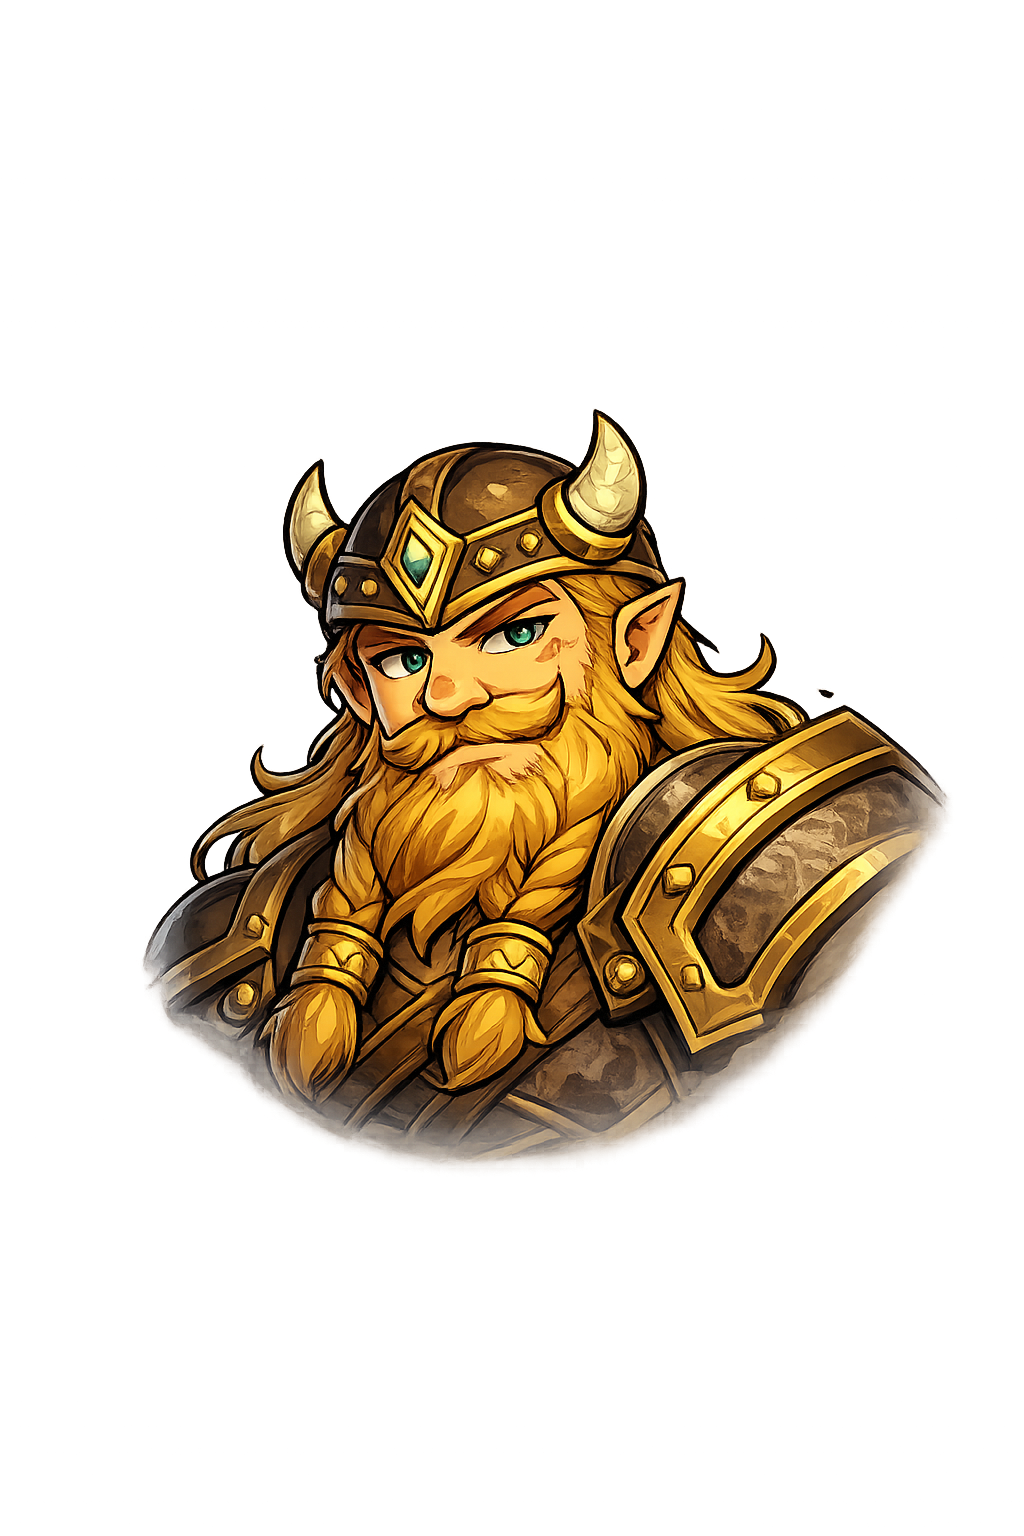
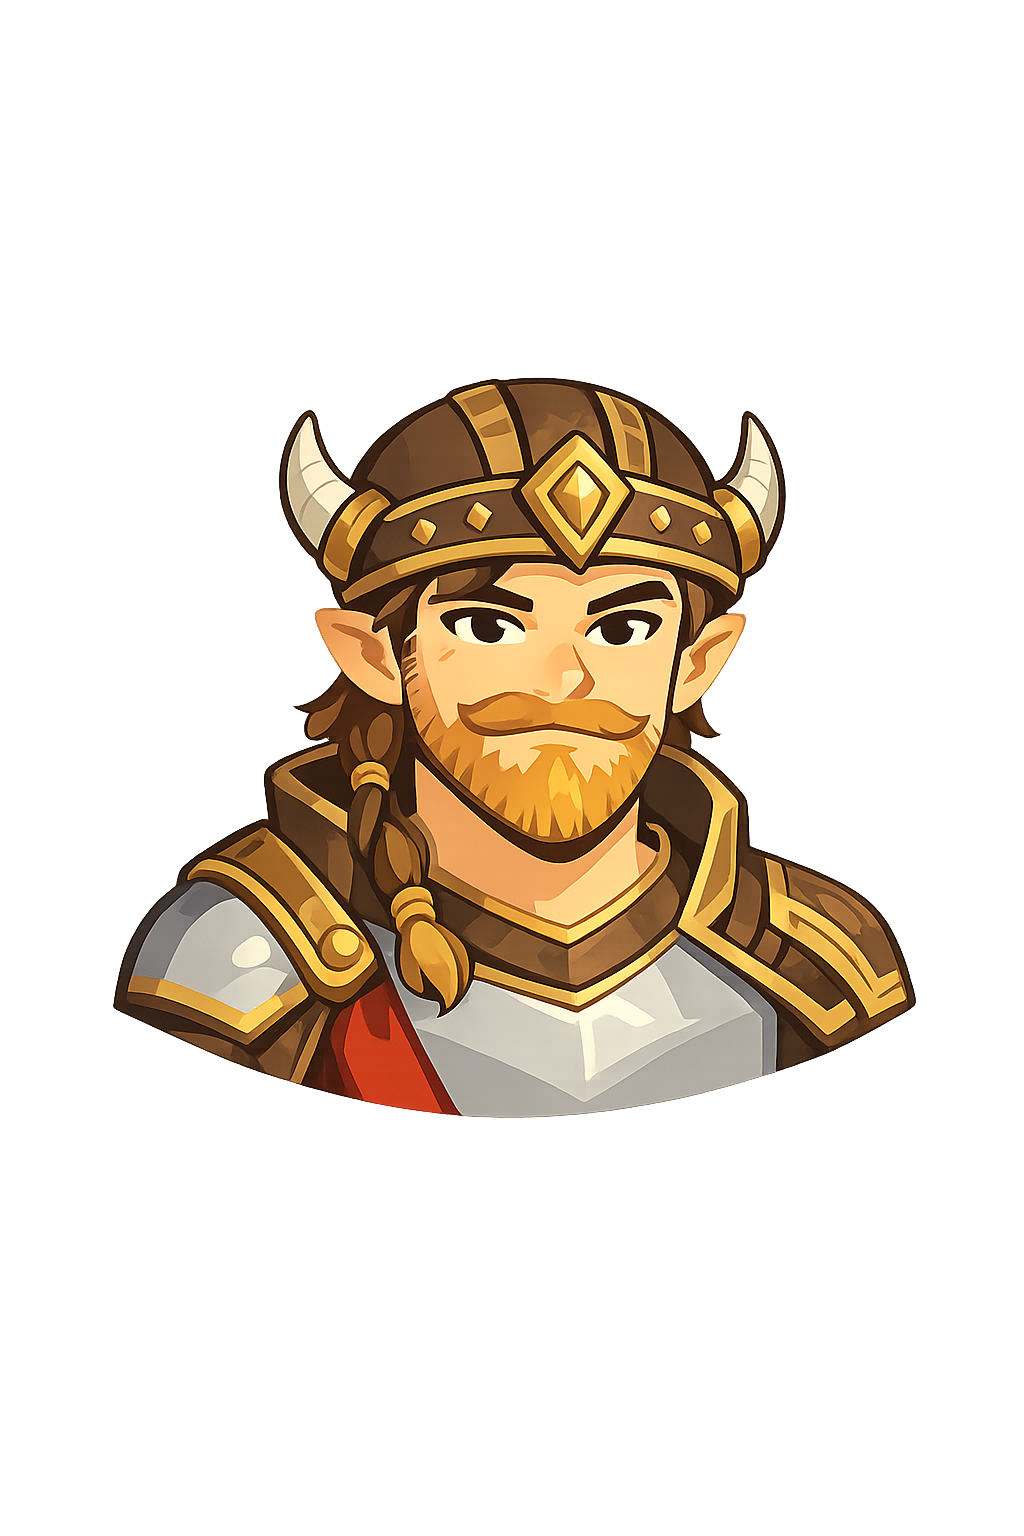
UX polish: lying wording, decision highlight, pending card glow, copy updates, asset refresh

Changed region(s): [[0.0938, 0.2188, 0.9375, 0.7812]]

diff --git a/game.js b/game.js
@@ -79,7 +79,7 @@ const AVATAR_PRESETS = Object.freeze({
   "avatar-bot": Object.freeze({ id: "avatar-bot", label: "Bot" })
 });
 
-const ASSET_VERSION = "2";
+const ASSET_VERSION = "3";
 
 const UI_TIMINGS = Object.freeze({
   actionToastMs: 1800,
@@ -129,6 +129,7 @@ const state = {
   pendingAction: null,
   pendingResponder: null,
   pendingChallengeResult: null,
+  pendingClaim: null,
   currentActionText: "Ready.",
   events: [],
   resolutionToken: 0,
@@ -664,6 +665,43 @@ function withAssetVersion(path) {
   return `${path}${separator}v=${encodeURIComponent(ASSET_VERSION)}`;
 }
 
+function clearPendingClaim() {
+  state.pendingClaim = null;
+}
+
+function setPendingClaim(action) {
+  if (!action || action.kind !== "role") {
+    clearPendingClaim();
+    return;
+  }
+  if (state.pendingResponder !== state.localSlot) {
+    clearPendingClaim();
+    return;
+  }
+  if (action.actor === state.localSlot) {
+    clearPendingClaim();
+    return;
+  }
+  const actorSlot = action.actor;
+  const actorId = state.slots[actorSlot] ? state.slots[actorSlot].id : actorSlot;
+  state.pendingClaim = {
+    actorId,
+    roleName: action.role || "",
+    cardIndex: typeof action.cardIndex === "number" ? action.cardIndex : null,
+    timestamp: Date.now()
+  };
+}
+
+function isPendingClaimCard(ownerSlot, card, cardIndex) {
+  if (!state.pendingClaim) return false;
+  if (state.screen !== APP_SCREENS.game) return false;
+  if (state.phase !== PHASES.awaitingResponse || state.pendingResponder !== state.localSlot) return false;
+  const owner = state.slots[ownerSlot];
+  if (!owner || owner.id !== state.pendingClaim.actorId) return false;
+  if (typeof state.pendingClaim.cardIndex === "number") return state.pendingClaim.cardIndex === cardIndex;
+  return state.pendingClaim.roleName === card.role;
+}
+
 function getAvatarPath(avatarId) {
   const normalized = normalizeAvatarId(avatarId);
   const path = ASSET_MAP.avatarPaths[normalized] || ASSET_MAP.avatarPaths["avatar-1"];
@@ -811,7 +849,11 @@ function extractCardIndex(input) {
 }
 
 function getInvalidActionFeedback(input) {
-  if (state.screen !== APP_SCREENS.game || state.phase !== PHASES.choosingAction || state.currentActor !== state.localSlot) {
+  if (state.screen !== APP_SCREENS.game) return "Not your turn.";
+  if (state.phase === PHASES.awaitingResponse && state.pendingResponder === state.localSlot) {
+    return "Choose ACCEPT or YOU'RE LYING!";
+  }
+  if (state.phase !== PHASES.choosingAction || state.currentActor !== state.localSlot) {
     return "Not your turn.";
   }
   if (state.friend.pendingRequest) return "Not your turn.";
@@ -1082,6 +1124,7 @@ function resetMatchState(options = {}) {
   state.pendingAction = null;
   state.pendingResponder = null;
   state.pendingChallengeResult = null;
+  clearPendingClaim();
   state.matchWinner = null;
   state.matchEndReason = "";
   state.events = [];
@@ -1114,6 +1157,7 @@ async function backToMenu() {
   state.pendingAction = null;
   state.pendingResponder = null;
   state.pendingChallengeResult = null;
+  clearPendingClaim();
   state.friend.pendingRequest = null;
   state.friend.startInFlight = false;
 
@@ -1380,6 +1424,7 @@ function buildSyncSnapshot() {
     pendingAction: state.pendingAction,
     pendingResponder: state.pendingResponder,
     pendingChallengeResult: state.pendingChallengeResult,
+    pendingClaim: state.pendingClaim,
     currentActionText: state.currentActionText,
     slots: {
       human: { ...state.slots.human },
@@ -1412,6 +1457,7 @@ function applySyncPayload(payload) {
   state.pendingAction = snap.pendingAction || null;
   state.pendingResponder = snap.pendingResponder || null;
   state.pendingChallengeResult = snap.pendingChallengeResult || null;
+  state.pendingClaim = snap.pendingClaim || null;
   state.currentActionText = snap.currentActionText || "Synced.";
 
   state.slots.human = {
@@ -1490,6 +1536,7 @@ function concludeMatch(winnerKey, reason) {
   state.pendingAction = null;
   state.pendingResponder = null;
   state.pendingChallengeResult = null;
+  clearPendingClaim();
   state.thinking = false;
   setCurrentAction(reason);
   updateUI();
@@ -1521,6 +1568,7 @@ function consumeRoundAction() {
   state.pendingAction = null;
   state.pendingResponder = null;
   state.pendingChallengeResult = null;
+  clearPendingClaim();
   state.thinking = false;
   state.friend.pendingRequest = null;
 }
@@ -1560,6 +1608,7 @@ function beginTurn() {
   state.pendingAction = null;
   state.pendingResponder = null;
   state.pendingChallengeResult = null;
+  clearPendingClaim();
   state.thinking = false;
 
   const actorState = state.players[actor];
@@ -1763,6 +1812,7 @@ function promptResponseForOpponent() {
 
   const responder = opponentOf(action.actor);
   state.pendingResponder = responder;
+  setPendingClaim(action);
 
   if (state.mode === "bot") {
     if (responder === "human") {
@@ -1807,6 +1857,7 @@ function handleResponseTimeout(responder) {
   }
 
   setCurrentAction("Response timer expired. Auto ACCEPT.");
+  clearPendingClaim();
   resolveAccept();
 }
 
@@ -1829,12 +1880,13 @@ function adjustSuspicion(role, delta) {
 function resolveAccept() {
   if (state.phase !== PHASES.awaitingResponse) return;
   clearTimer();
+  clearPendingClaim();
 
   const action = state.pendingAction;
   if (!action) return;
 
   if (typeof action.cardIndex === "number") markRoleReveal(action.actor, action.cardIndex, false);
-  setCurrentAction(`ACCEPTED. ${slotLabel(action.actor)} ${action.role} resolves.`);
+  setCurrentAction(`ACCEPTED. ${slotName(action.actor)} resolves ${action.role}.`);
 
   runResolutionAfterDelay(() => {
     const pending = state.pendingAction;
@@ -1848,6 +1900,7 @@ function resolveAccept() {
 function resolveChallenge() {
   if (state.phase !== PHASES.awaitingResponse) return;
   clearTimer();
+  clearPendingClaim();
 
   const action = state.pendingAction;
   if (!action || action.kind !== "role" || typeof action.cardIndex !== "number") return;
@@ -1861,9 +1914,13 @@ function resolveChallenge() {
   state.pendingChallengeResult = { actor, challenger, role: action.role, isReal };
 
   if (isReal) {
-    setCurrentAction("CHALLENGE! Result: FAILURE (challenger loses 1 HP)");
+    setCurrentAction(
+      `${slotName(challenger)} called YOU'RE LYING!, but ${slotName(actor)} is verified REAL. ${slotName(challenger)} loses 1 HP.`
+    );
   } else {
-    setCurrentAction("CHALLENGE! Result: SUCCESS (liar loses 2 HP)");
+    setCurrentAction(
+      `${slotName(challenger)} called YOU'RE LYING!, and ${slotName(actor)} is verified FAKE. ${slotName(actor)} loses 2 HP.`
+    );
   }
 
   runResolutionAfterDelay(() => {
@@ -2228,6 +2285,7 @@ function applyCanonicalTimeout(payload) {
   if (payload.phase === "response") {
     if (state.phase !== PHASES.awaitingResponse || payload.actorSlot !== state.pendingResponder) return;
     setCurrentAction("Response timer expired. Auto ACCEPT.");
+    clearPendingClaim();
     if (payload.forcedChoice === "CHALLENGE") resolveChallenge();
     else resolveAccept();
   }
@@ -2281,6 +2339,7 @@ function submitLocalAction(input) {
 function submitLocalResponse(choice) {
   if (state.phase !== PHASES.awaitingResponse || state.pendingResponder !== state.localSlot) return;
   if (state.friend.pendingRequest) return;
+  clearPendingClaim();
 
   if (state.mode === "friend") {
     const actorSlot = state.pendingResponder;
@@ -2387,6 +2446,14 @@ function createRoleCardNode({ ownerSlot, card, cardIndex, asButton, disabled }) 
     node.classList.add("opponent-card");
     if (card.confirmed) node.classList.add("opponent-confirmed");
     else if (card.revealedUsed) node.classList.add("opponent-played");
+  }
+
+  const pendingClaimCard = isPendingClaimCard(ownerSlot, card, cardIndex);
+  if (pendingClaimCard) {
+    node.classList.add("card--pending-claim");
+    if (state.pendingClaim && Date.now() - state.pendingClaim.timestamp <= 320) {
+      node.classList.add("card--pending-claim-flash");
+    }
   }
 
   const artLayer = document.createElement("span");
@@ -2611,6 +2678,7 @@ function updateUI() {
     !state.friend.pendingRequest;
 
   ui.responseOverlay.classList.toggle("hidden", !showResponse);
+  ui.responseOverlay.classList.toggle("decision-attention", showResponse);
   ui.appRoot.classList.toggle("response-open", showResponse);
 
   ui.resultWinnerText.textContent = getResultWinnerText();

diff --git a/styles.css b/styles.css
@@ -492,6 +492,18 @@ body {
   opacity: 0.52;
 }
 
+.role-card.card--pending-claim {
+  border-color: rgba(251, 235, 172, 0.92);
+  box-shadow:
+    inset 0 0 0 1px rgba(255, 242, 191, 0.4),
+    inset 0 -14px 24px rgba(0, 0, 0, 0.35),
+    0 0 16px rgba(255, 232, 132, 0.4);
+}
+
+.role-card.card--pending-claim-flash {
+  animation: pendingClaimFlash 300ms ease-out 1;
+}
+
 .card-art {
   position: absolute;
   inset: 0;
@@ -745,6 +757,10 @@ body {
   background: var(--bg-dark);
 }
 
+.response-overlay.decision-attention {
+  animation: decisionOverlayPulse 780ms ease-in-out infinite;
+}
+
 .response-btn {
   border: 0;
   min-height: var(--tap);
@@ -907,6 +923,42 @@ body {
       inset 0 1px 0 rgba(255, 255, 255, 0.05),
       0 0 0 1px rgba(129, 182, 76, 0.28),
       0 0 10px rgba(129, 182, 76, 0.16);
+  }
+}
+
+@keyframes pendingClaimFlash {
+  0% {
+    box-shadow:
+      inset 0 0 0 1px rgba(255, 255, 234, 0.9),
+      0 0 0 0 rgba(255, 235, 140, 0.65);
+  }
+  60% {
+    box-shadow:
+      inset 0 0 0 1px rgba(255, 250, 205, 0.85),
+      0 0 0 7px rgba(255, 235, 140, 0.22);
+  }
+  100% {
+    box-shadow:
+      inset 0 0 0 1px rgba(255, 242, 191, 0.4),
+      0 0 16px rgba(255, 232, 132, 0.4);
+  }
+}
+
+@keyframes decisionOverlayPulse {
+  0% {
+    box-shadow: 0 0 0 0 rgba(129, 182, 76, 0.14);
+    background: rgba(23, 22, 20, 0.98);
+    border-top-color: #0f0e0d;
+  }
+  50% {
+    box-shadow: 0 0 0 5px rgba(129, 182, 76, 0.2);
+    background: rgba(30, 34, 24, 0.98);
+    border-top-color: rgba(129, 182, 76, 0.72);
+  }
+  100% {
+    box-shadow: 0 0 0 0 rgba(129, 182, 76, 0.14);
+    background: rgba(23, 22, 20, 0.98);
+    border-top-color: #0f0e0d;
   }
 }
 

diff --git a/index.html b/index.html
@@ -164,7 +164,7 @@
 
   <section id="responseOverlay" class="response-overlay hidden" role="dialog" aria-modal="true" aria-label="Respond to claim">
     <button id="acceptBtn" class="response-btn" type="button">ACCEPT</button>
-    <button id="challengeBtn" class="response-btn" type="button">CHALLENGE</button>
+    <button id="challengeBtn" class="response-btn" type="button">YOU'RE LYING!</button>
   </section>
   <p id="copyToast" class="copy-toast hidden" role="status" aria-live="polite">Copied!</p>
   <p id="actionToast" class="action-toast hidden" role="status" aria-live="polite"></p>
@@ -207,10 +207,10 @@ At turn start, the acting player is:
 
 Bluff system:
 You may play any of your 4 role cards (even fake).
-Opponent must ACCEPT or CHALLENGE.
+Opponent must ACCEPT or YOU'RE LYING!.
 
-Challenge resolution:
-If role was REAL -> challenger loses 1 HP, effect applies.
+You're lying! resolution:
+If role was REAL -> caller loses 1 HP, effect applies.
 If role was FAKE -> actor loses 2 HP, effect canceled.
 If you hold ELF and defend successfully -> gain +1 Gold.
 
